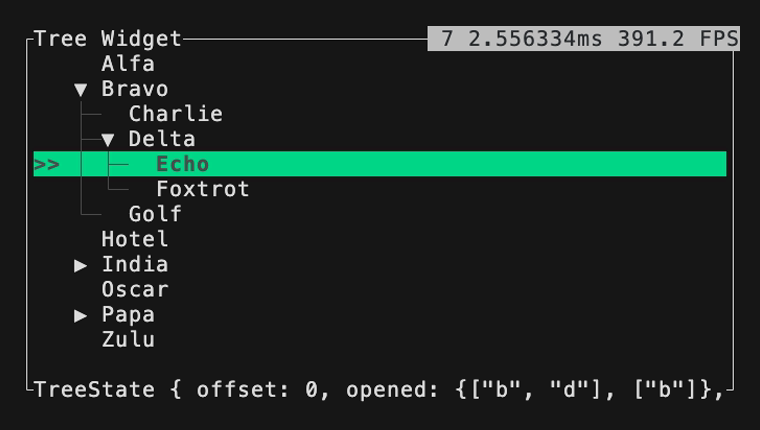
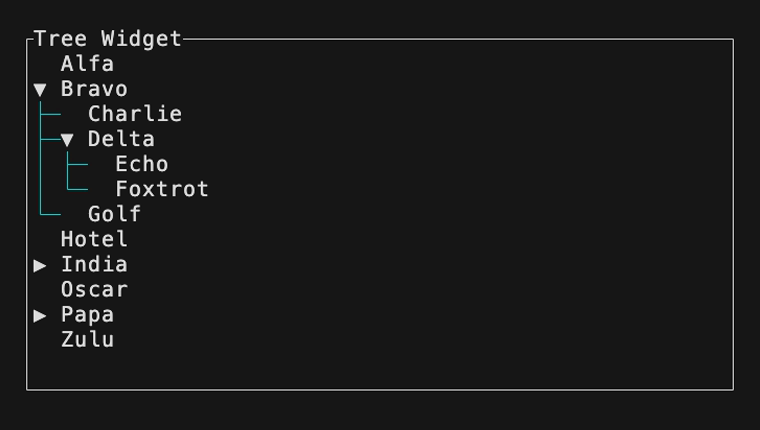
docs: brighten example guides and declutter the screenshot
Make the demo read cleanly, closer to the previous static screenshot.

Color the example's indent guides cyan, so the connectors stand out
against the tree text. The dark gray was almost invisible.

Open two nodes at launch and remove the debug TreeState dump from the
block's bottom title, so the widget is the only thing on screen.

Capture the first frame (before any input) in the tape. This keeps the
example's performance overlay out of the image, because the example
draws the overlay only after a keypress.

Regenerate media/screenshot.png.

diff --git a/examples/example.rs b/examples/example.rs
@@ -18,8 +18,12 @@ struct App {
 
 impl App {
     fn new() -> Self {
+        // Open a couple of nodes so the indent guides are visible on launch.
+        let mut state = TreeState::default();
+        state.open(vec!["b"]);
+        state.open(vec!["b", "d"]);
         Self {
-            state: TreeState::default(),
+            state,
             items: vec![
                 TreeItem::new_leaf("a", "Alfa"),
                 TreeItem::new(
@@ -85,11 +89,7 @@ impl App {
         let area = frame.area();
         let widget = Tree::new(&self.items)
             .expect("all item identifiers are unique")
-            .block(
-                Block::bordered()
-                    .title("Tree Widget")
-                    .title_bottom(format!("{:?}", self.state)),
-            )
+            .block(Block::bordered().title("Tree Widget"))
             .experimental_scrollbar(Some(
                 Scrollbar::new(ScrollbarOrientation::VerticalRight)
                     .begin_symbol(None)
@@ -97,7 +97,7 @@ impl App {
                     .end_symbol(None),
             ))
             .indent_guides(true)
-            .indent_guide_style(Style::new().fg(Color::DarkGray))
+            .indent_guide_style(Style::new().fg(Color::Cyan))
             .highlight_style(
                 Style::new()
                     .fg(Color::Black)